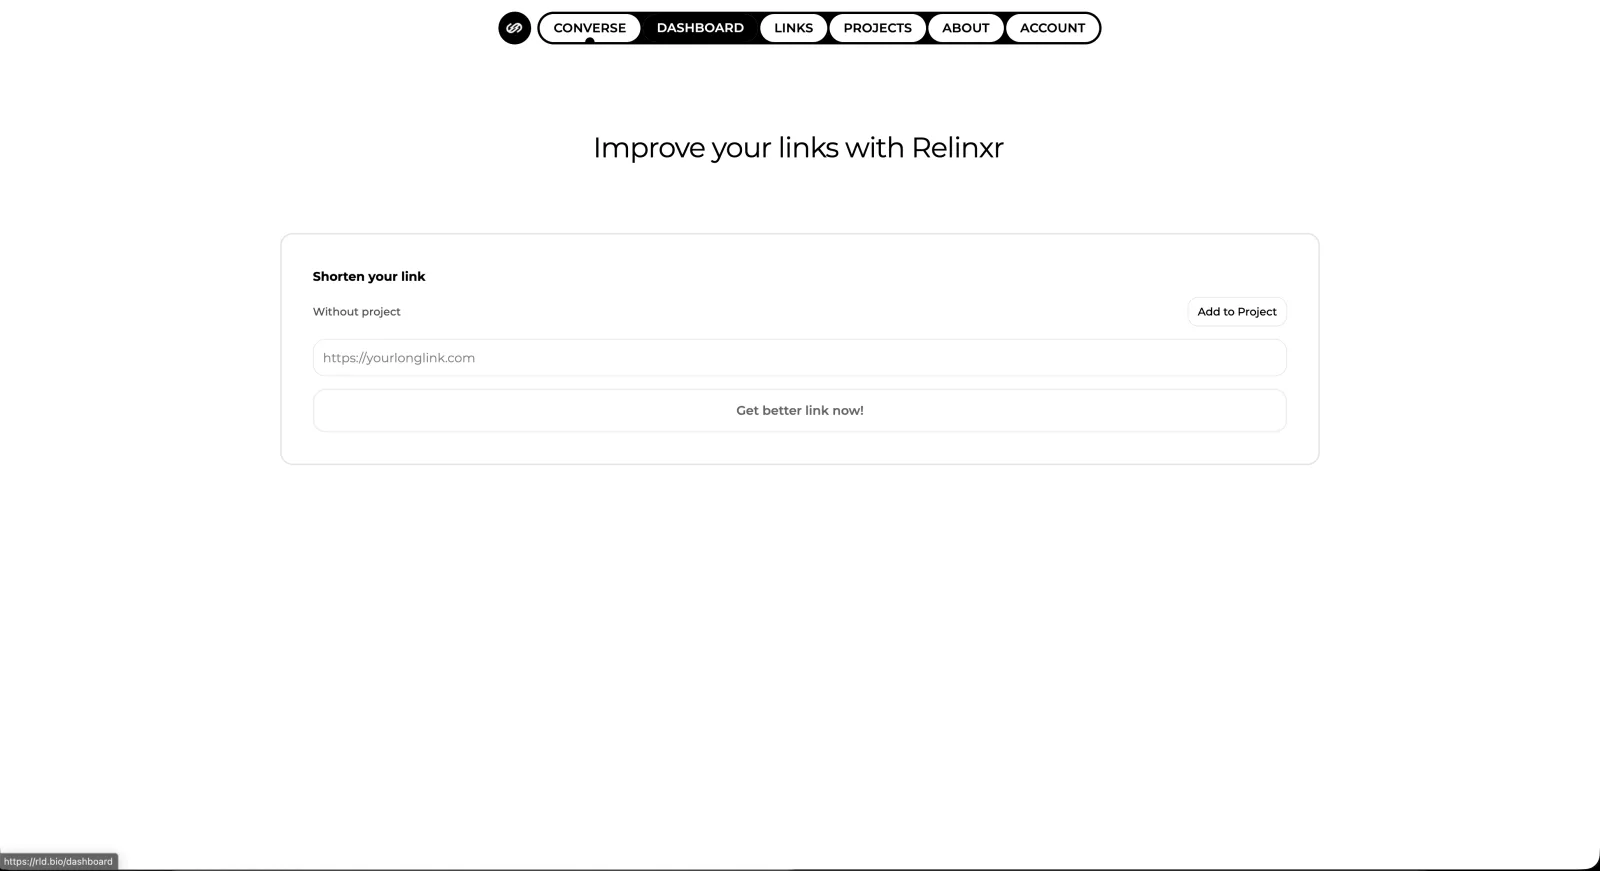
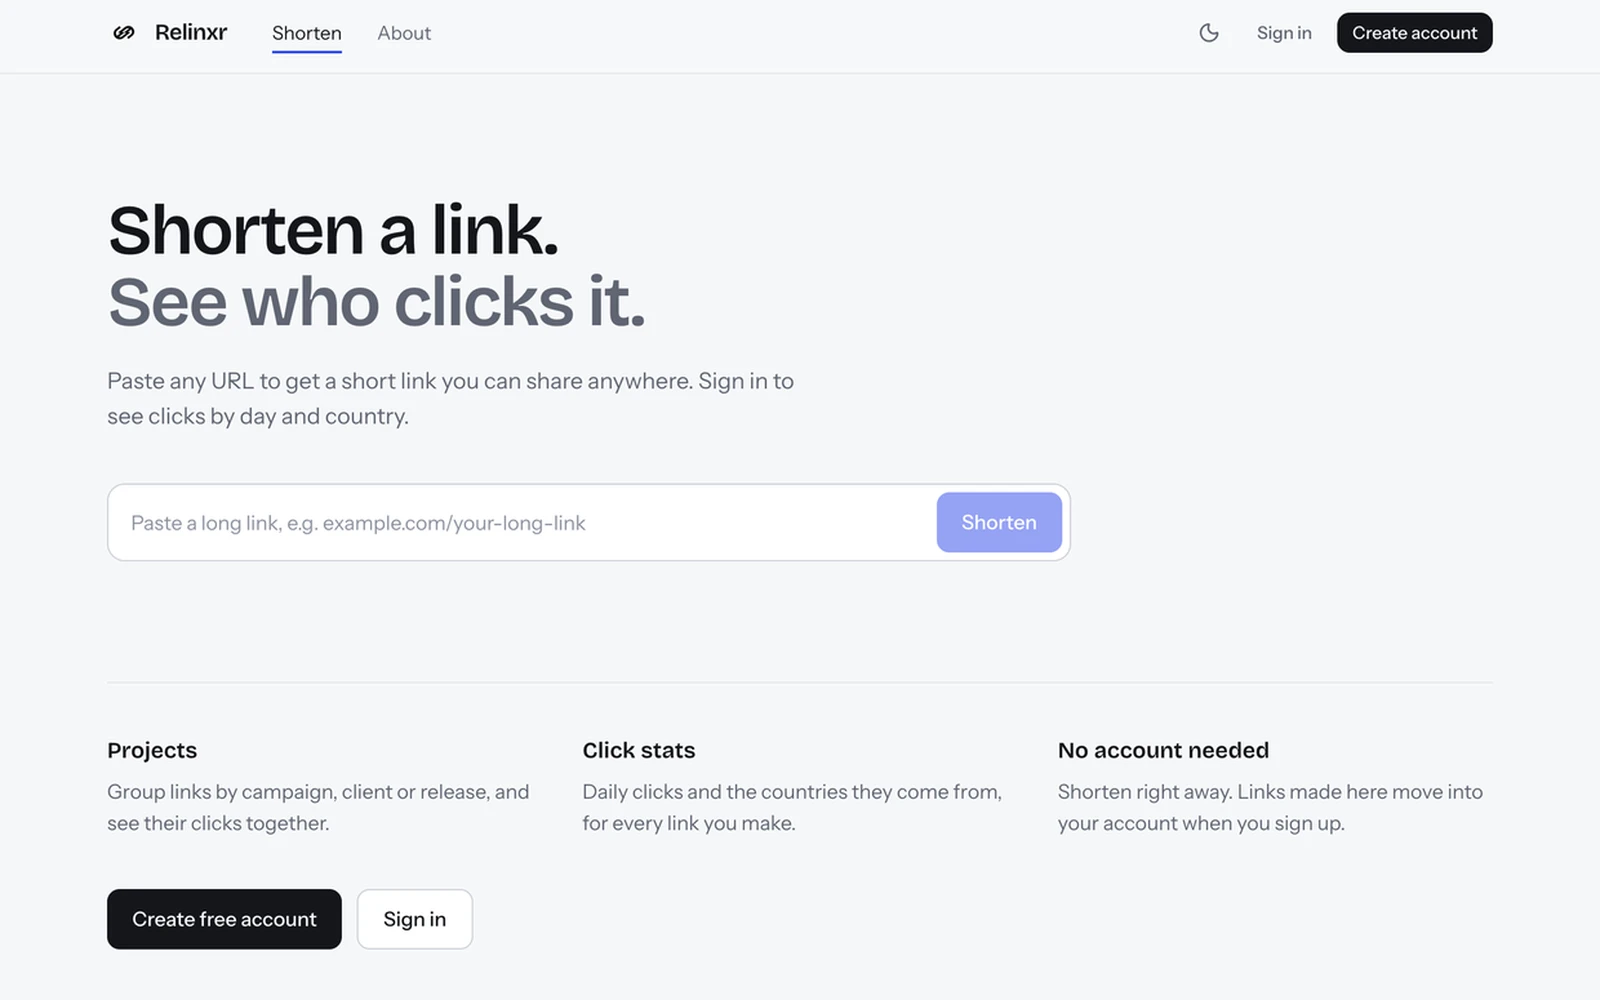
new projects + fixes

diff --git a/lib/projects.ts b/lib/projects.ts
@@ -1,4 +1,4 @@
-export type ProjectStatus = "Live" | "Client work" | "In progress"
+export type ProjectStatus = "Live" | "Client work" | "In progress" | "University"
 
 export interface Project {
   slug: string
@@ -7,6 +7,8 @@ export interface Project {
   status: ProjectStatus
   role: string
   image?: string
+  // Extra screenshots shown under the main image on the detail page
+  gallery?: { src: string; alt: string }[]
   // Short list shown on the project card; defaults to the first stack items
   tags?: string[]
   points: string[]
@@ -22,6 +24,12 @@ export const projects: Project[] = [
     status: "Live",
     role: "Full-stack: backend, frontend and deployment",
     image: "/incamp.webp",
+    gallery: [
+      { src: "/incamp/onboarding.webp", alt: "Onboarding: profile, skills and working style used for matching" },
+      { src: "/incamp/profile.webp", alt: "Public profile with projects, skills and open bounties" },
+      { src: "/incamp/project-dark.webp", alt: "Project page in dark theme" },
+      { src: "/incamp/post-bounty.webp", alt: "Posting a bounty: a small paid task" },
+    ],
     tags: ["FastAPI", "PostgreSQL", "Redis", "Next.js", "Docker"],
     points: [
       "Async FastAPI backend on PostgreSQL. People and projects are matched with semantic search over pgvector embeddings.",
@@ -38,14 +46,49 @@ export const projects: Project[] = [
     links: [{ label: "incamp.online", href: "https://incamp.online" }],
   },
   {
+    slug: "raytracer",
+    title: "CSG ray tracer",
+    summary: "A C++17 ray tracer that renders JSON scenes built with constructive solid geometry. University team project, graded 20/20 with maximum bonus points.",
+    status: "University",
+    role: "Team of three, TU Hamburg, Object Oriented Programming course",
+    image: "/raytracer.webp",
+    gallery: [
+      { src: "/raytracer/mirror.webp", alt: "Framed mirror with second-order reflections" },
+      { src: "/raytracer/puddle.webp", alt: "Glass tori, metal and a puddle with an uneven edge" },
+      { src: "/raytracer/glass.webp", alt: "Glass of different thickness refracting a striped floor" },
+      { src: "/raytracer/neon.webp", alt: "Neon tunnel animation built from CSG frames" },
+    ],
+    tags: ["C++17", "CMake", "Eigen", "Docker", "pybind11"],
+    points: [
+      "Everything is a Solid with two methods, intersect(ray) and contains(point). Primitives, boolean operations and transforms all implement it (Composite pattern), so CSG nests without limit and a new primitive only needs those two methods.",
+      "Spheres, half-spaces and tori, including a custom quartic solver for the torus. Union, intersection, difference, exclusion and negation reduce to an algebra of sorted ray intervals.",
+      "Recursive shading: reflection, refraction by Snell’s law with total internal reflection, shadows, Phong lighting, jittered anti-aliasing. Multithreaded rendering cut the showcase scene from 5.3 s to 1.1 s on 12 cores.",
+      "Unit tests for every module check properties rather than magic numbers, e.g. a glass sphere must flip the background upside down. Every JSON scene runs as a regression test in CTest, with AddressSanitizer and UBSan builds.",
+      "Multi-stage Docker build pinned by digest that runs the tests with GCC and -Werror during the build, about 360 MB final image running as a non-root user.",
+      "Python bindings via pybind11 and ffmpeg scripts for animations, Doxygen API docs and UML class diagrams.",
+    ],
+    stack: [
+      { layer: "Core", items: ["C++17", "Eigen", "nlohmann/json", "std::thread"] },
+      { layer: "Build and tests", items: ["CMake", "doctest", "CTest", "AddressSanitizer", "UBSan"] },
+      { layer: "Tooling", items: ["Docker", "pybind11", "Python", "ffmpeg", "Doxygen"] },
+    ],
+    links: [],
+  },
+  {
     slug: "relinxr",
     title: "Relinxr",
     summary: "A link analytics SaaS: short links with click tracking and a dashboard of who clicked, where and when.",
     status: "Live",
     role: "Solo product: design and full-stack development",
     image: "/relinxr.webp",
+    gallery: [
+      { src: "/relinxr/overview.webp", alt: "Overview: totals, clicks over the last 7 days and top countries" },
+      { src: "/relinxr/project.webp", alt: "A project: its links, their clicks and settings in one place" },
+    ],
     points: [
-      "Link shortening with click tracking, aggregated into dashboard charts.",
+      "Link shortening with click tracking, aggregated into dashboard charts of daily clicks and the countries they come from.",
+      "Projects group links by campaign, client or release and show their clicks together. Links made without an account move into it on sign-up.",
+      "Light and dark themes.",
       "JWT-based authentication and per-user data in MongoDB.",
       "Full UI built from scratch with shadcn/ui components and Recharts.",
     ],

diff --git a/app/projects/[slug]/page.tsx b/app/projects/[slug]/page.tsx
@@ -75,6 +75,34 @@ export default async function ProjectPage({ params }: Props) {
         </Reveal>
       )}
 
+      {project.gallery && project.gallery.length > 0 && (
+        <Reveal className="mt-4">
+          <ul className="grid gap-4 sm:grid-cols-2">
+            {project.gallery.map((shot) => (
+              <li key={shot.src}>
+                <a
+                  href={shot.src}
+                  target="_blank"
+                  rel="noopener noreferrer"
+                  className="group block overflow-hidden rounded-xl border border-border bg-muted transition-colors hover:border-foreground/20"
+                >
+                  <div className="relative aspect-[16/10]">
+                    <Image
+                      src={shot.src}
+                      alt={shot.alt}
+                      fill
+                      sizes="(min-width: 768px) 352px, 100vw"
+                      className="object-cover object-top transition-transform duration-300 group-hover:scale-[1.02]"
+                    />
+                  </div>
+                </a>
+                <p className="mt-2 text-sm text-muted-foreground">{shot.alt}</p>
+              </li>
+            ))}
+          </ul>
+        </Reveal>
+      )}
+
       <Reveal className="mt-14">
         <h2 className="text-xl font-semibold tracking-tight">What I built</h2>
         <ul className="mt-5 space-y-3">
